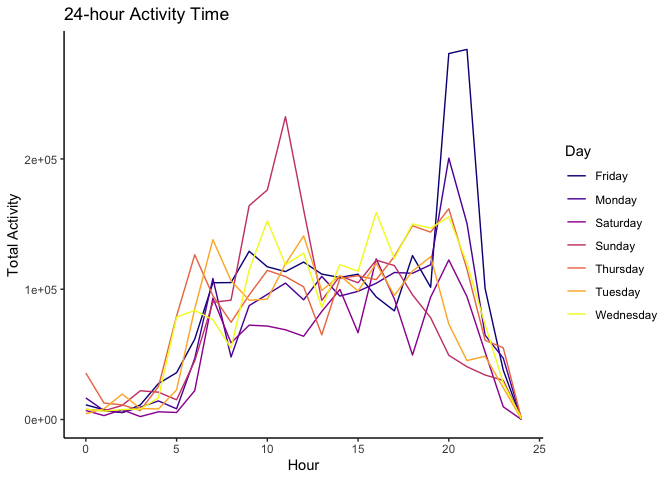
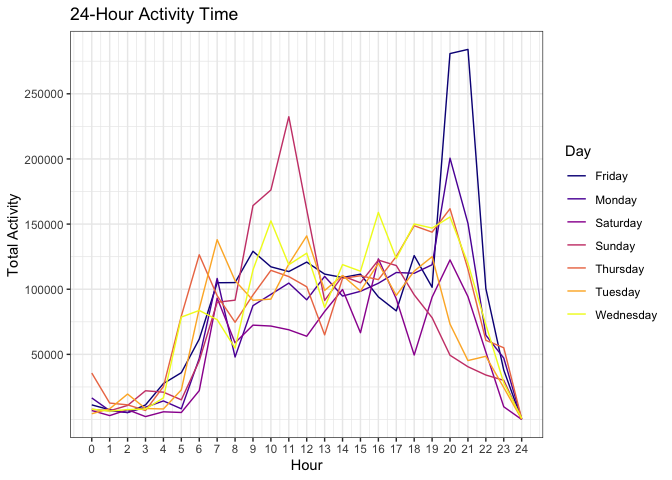
Forgot to knit. Also, editing x and y scales for plot in problem 3

diff --git a/HW3.md b/HW3.md
@@ -209,8 +209,9 @@ accel %>%
     total_activity = sum(activity)) %>%
   ggplot(aes(x = hour, y = total_activity, color = day)) + 
     geom_line() + 
-    theme(legend.position = "bottom") + 
-  theme_classic() + 
+  theme_bw() +
+  scale_x_continuous(breaks = c(0:24)) +
+  scale_y_continuous(breaks = c(50000, 100000, 150000, 200000, 250000)) +
   viridis::scale_color_viridis(
     name = "Day", 
     discrete = TRUE, 
@@ -218,7 +219,7 @@ accel %>%
   labs(
     x = "Hour",
     y = "Total Activity", 
-    title = "24-hour Activity Time")
+    title = "24-Hour Activity Time")
 ```
 
 ![](HW3_files/figure-gfm/unnamed-chunk-14-1.png)<!-- -->
